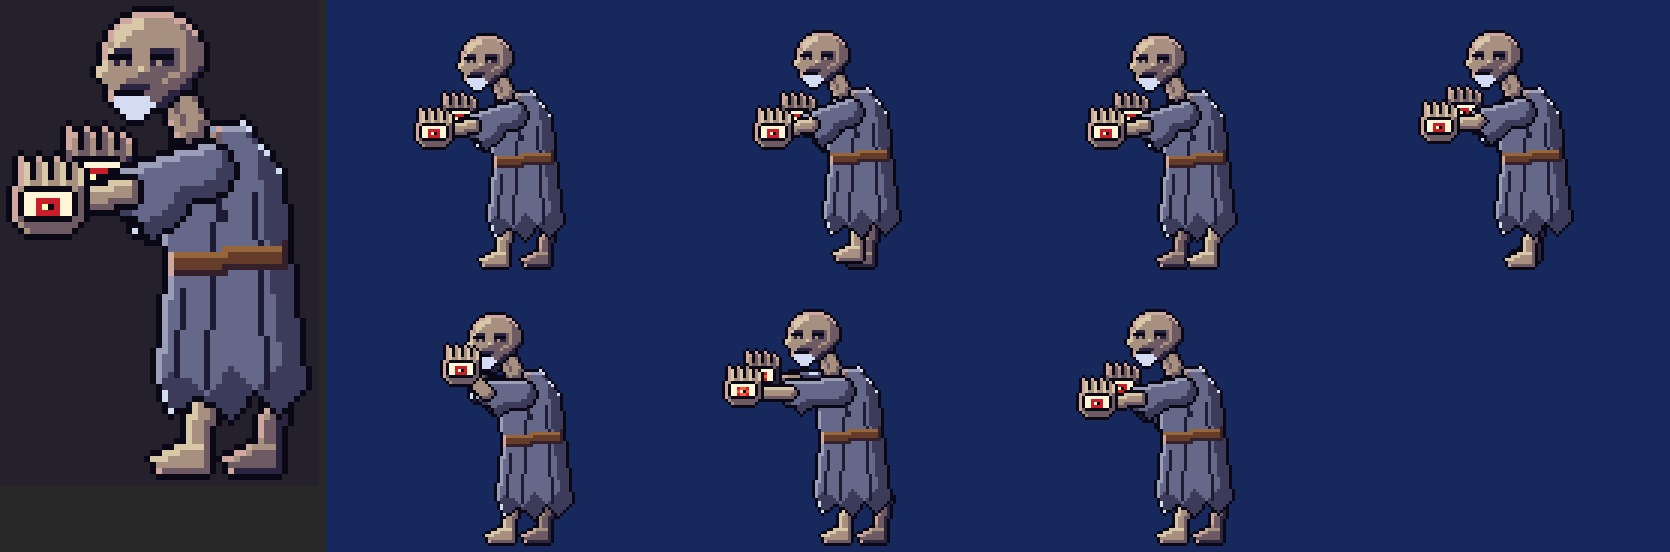
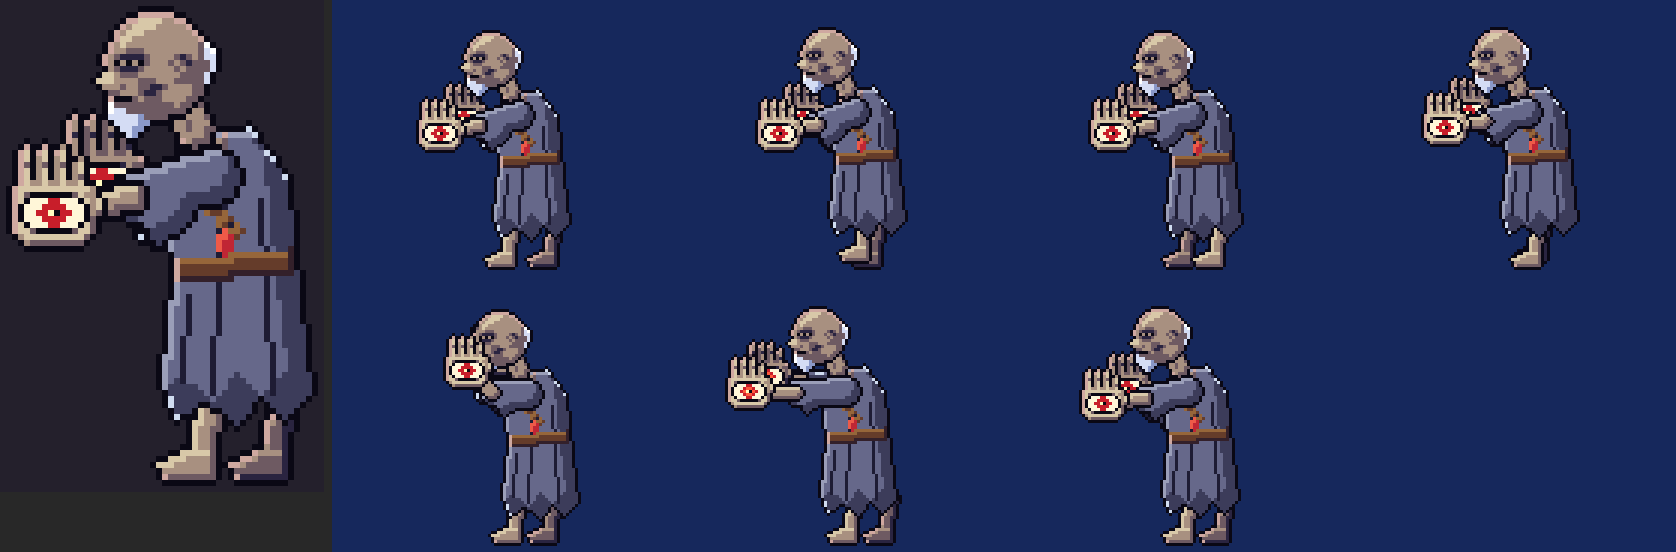
Tenome: Profilkopf mit Hakennase und zugenähten Augen, größere Handaugen mit Lidern, Gebetskette
Claude-Session: https://claude.ai/code/session_01KhgxT7a5tRTGeQVFkHSAcV

diff --git a/art_src/fable/enemies_6/tenome.py b/art_src/fable/enemies_6/tenome.py
@@ -17,43 +17,50 @@ SKINF = ('l0', 'l1', 'l2')
 ROBE = ('j1', 'j2', 'j3')
 ROBEF = ('j0', 'j1', 'j2')
 
-LEG = dict(zip('abcdKqWh', ['l0', 'l1', 'l2', 'l3', 'K', 'q', 'b3', 'v2']))
+LEG = dict(zip('abcdKqWhg', ['l0', 'l1', 'l2', 'l3', 'K', 'q', 'b3', 'v2', 'v1']))
 # kahler Schädel, eingefallene Wangen, zugenähte/geschlossene Lider, schütterer weißer Bart
 HEAD = """
-......bcccccb.....
-....bcddccccccb...
-...cddddccccccbb..
-..cdddcccccccccbb.
-..cddccccccccccbb.
-.ccdcccccccccccbbb
-.cdaaacccaaaabcbbb
-.cKKKKcccKKKKbcbbb
-.dcacacccacaabcbbb
-ddcccccdcbbbbbcbba
-dccccccbbbbbccbba.
-.ccccbbbbbbcbbba..
-..ccaaaaabbbbbaa..
-..cKKKKKbbbbaa....
-..chhhhhhbbaa.....
-...hhhhhhhaa......
-....hhhhh.........
-.....hhh..........
+.......bbbbbb.......
+.....bcddddccbb.....
+....bcddddcccccb....
+...bcdddccccccccb...
+...cddcccccccccccb..
+..bcdccccccccccccbh.
+..cccbbbcccccccccbhh
+.bcbaaaabccccbabcbhh
+.bcKcKcKbcccbcbabbbh
+..cbaaabcccccbcbbbbh
+.ddcbbbcccccccbbbbh.
+dddccccbbbcccbbbbbh.
+.cccbccbbaabccccbb..
+..bbcccbaabcccccbb..
+..aKKKbcbbbccccbb...
+..hbbbbbbbbbbcbb....
+..hhhbbbbbbbbbb.....
+..hhhhhgbbbb........
+...hhhhgg...........
+....hhgg............
+.....hg.............
 """
-# Handfläche nach vorn, gespreizte Finger, großes Auge mitten in der Hand
+# Handfläche nach vorn: vier knochige Finger mit Knöcheln, Daumen seitlich, mandelförmiges Auge mit Lidern
 PALM = """
-.c..c..c....
-.cd.cd.cd.c.
-.cd.cd.cd.cd
-.cd.cd.cd.cd
-.cdccdccdccd
-ccKKKKKKKKcb
-cKWWWWWWWWKb
-cKWWeEEeWWKb
-cKWWEZYEWWKb
-cKWWeEEeWWKb
-cbKKKKKKKKbb
-.cbbbbbbbbb.
-..cbbbbbba..
+..c..c..c.......
+.cd.cd.cd.......
+.cd.cd.cd..c....
+.cb.cb.cb.cd....
+.cd.cd.cd.cd....
+.cd.cd.cd.cb....
+.cdccdccdccd....
+cddddddddddddc..
+cdaKKKKKKKadcc..
+cdKWWWeeWWWKdcd.
+cKWWWeEEeWWWKcd.
+cKWWeEZYEeWWKcb.
+cKWWWeEEeWWWKb..
+cdKWWWeeWWWKdb..
+cddaKKKKKKaddb..
+.cddddddddddb...
+..cbbbbbbbbb....
 """
 
 
@@ -83,7 +90,7 @@ def arm(c, sh_, hd, ramp, robe, glow, far=False):
     p.form(L(*el, 2.2, *hd, 1.8), ramp, sd=1, hl=1)                        # dürrer Unterarm
     c.stamp(p, 'K')
     lg = dict(LEG, c=ramp[1], d=ramp[2], b=ramp[0], a=ramp[0], e='e0', E='e1' if glow else 'e0', Z='y3', Y='K')
-    p = C(); p.grid(int(hd[0]) - 6, int(hd[1]) - 8, PALM, lg); c.stamp(p, 'K')
+    p = C(); p.grid(int(hd[0]) - 7, int(hd[1]) - 11, PALM, lg); c.stamp(p, 'K')
 
 
 def draw(**kw):
@@ -117,6 +124,11 @@ def draw(**kw):
     p.line([B((24, 24)), B((31, 38))], 'j0', only=robe)                   # Kragen
     neck = PG([B((24, 24)), B((30, 23)), B((29, 30))]) & robe
     p.form(neck, SKIN, sd=1, hl=0)
+    for k in range(9):                                                     # Gebetskette
+        t = k / 8
+        q = B((24 + t * 8 + math.sin(t * 3.1) * -3, 25 + t * 14))
+        p.form(E(q[0], q[1], 1.3, 1.3), ('w0', 'w1', 'w2'), sd=0, hl=1)
+    p.form(E(*B((30, 41)), 1.6, 2.2), ('m1', 'm2', 'm3'), sd=0, hl=1)       # Quaste
     c.stamp(p, 'K')
     # ---- Hals (sehnig), dann Kopf leicht vorgereckt
     p = C()
@@ -124,7 +136,7 @@ def draw(**kw):
     p.line([B((24, 22)), B((22, 17))], 'l1')
     c.stamp(p, 'K')
     p = C()
-    p.grid(*B((10, 4)), HEAD, LEG)
+    p.grid(*B((9, 3)), HEAD, LEG)
     c.stamp(p, 'K')
     # ---- naher Arm
     arm(c, B((28, 30)), B(S['nhd']), SKIN, ROBE, S['glow'])
